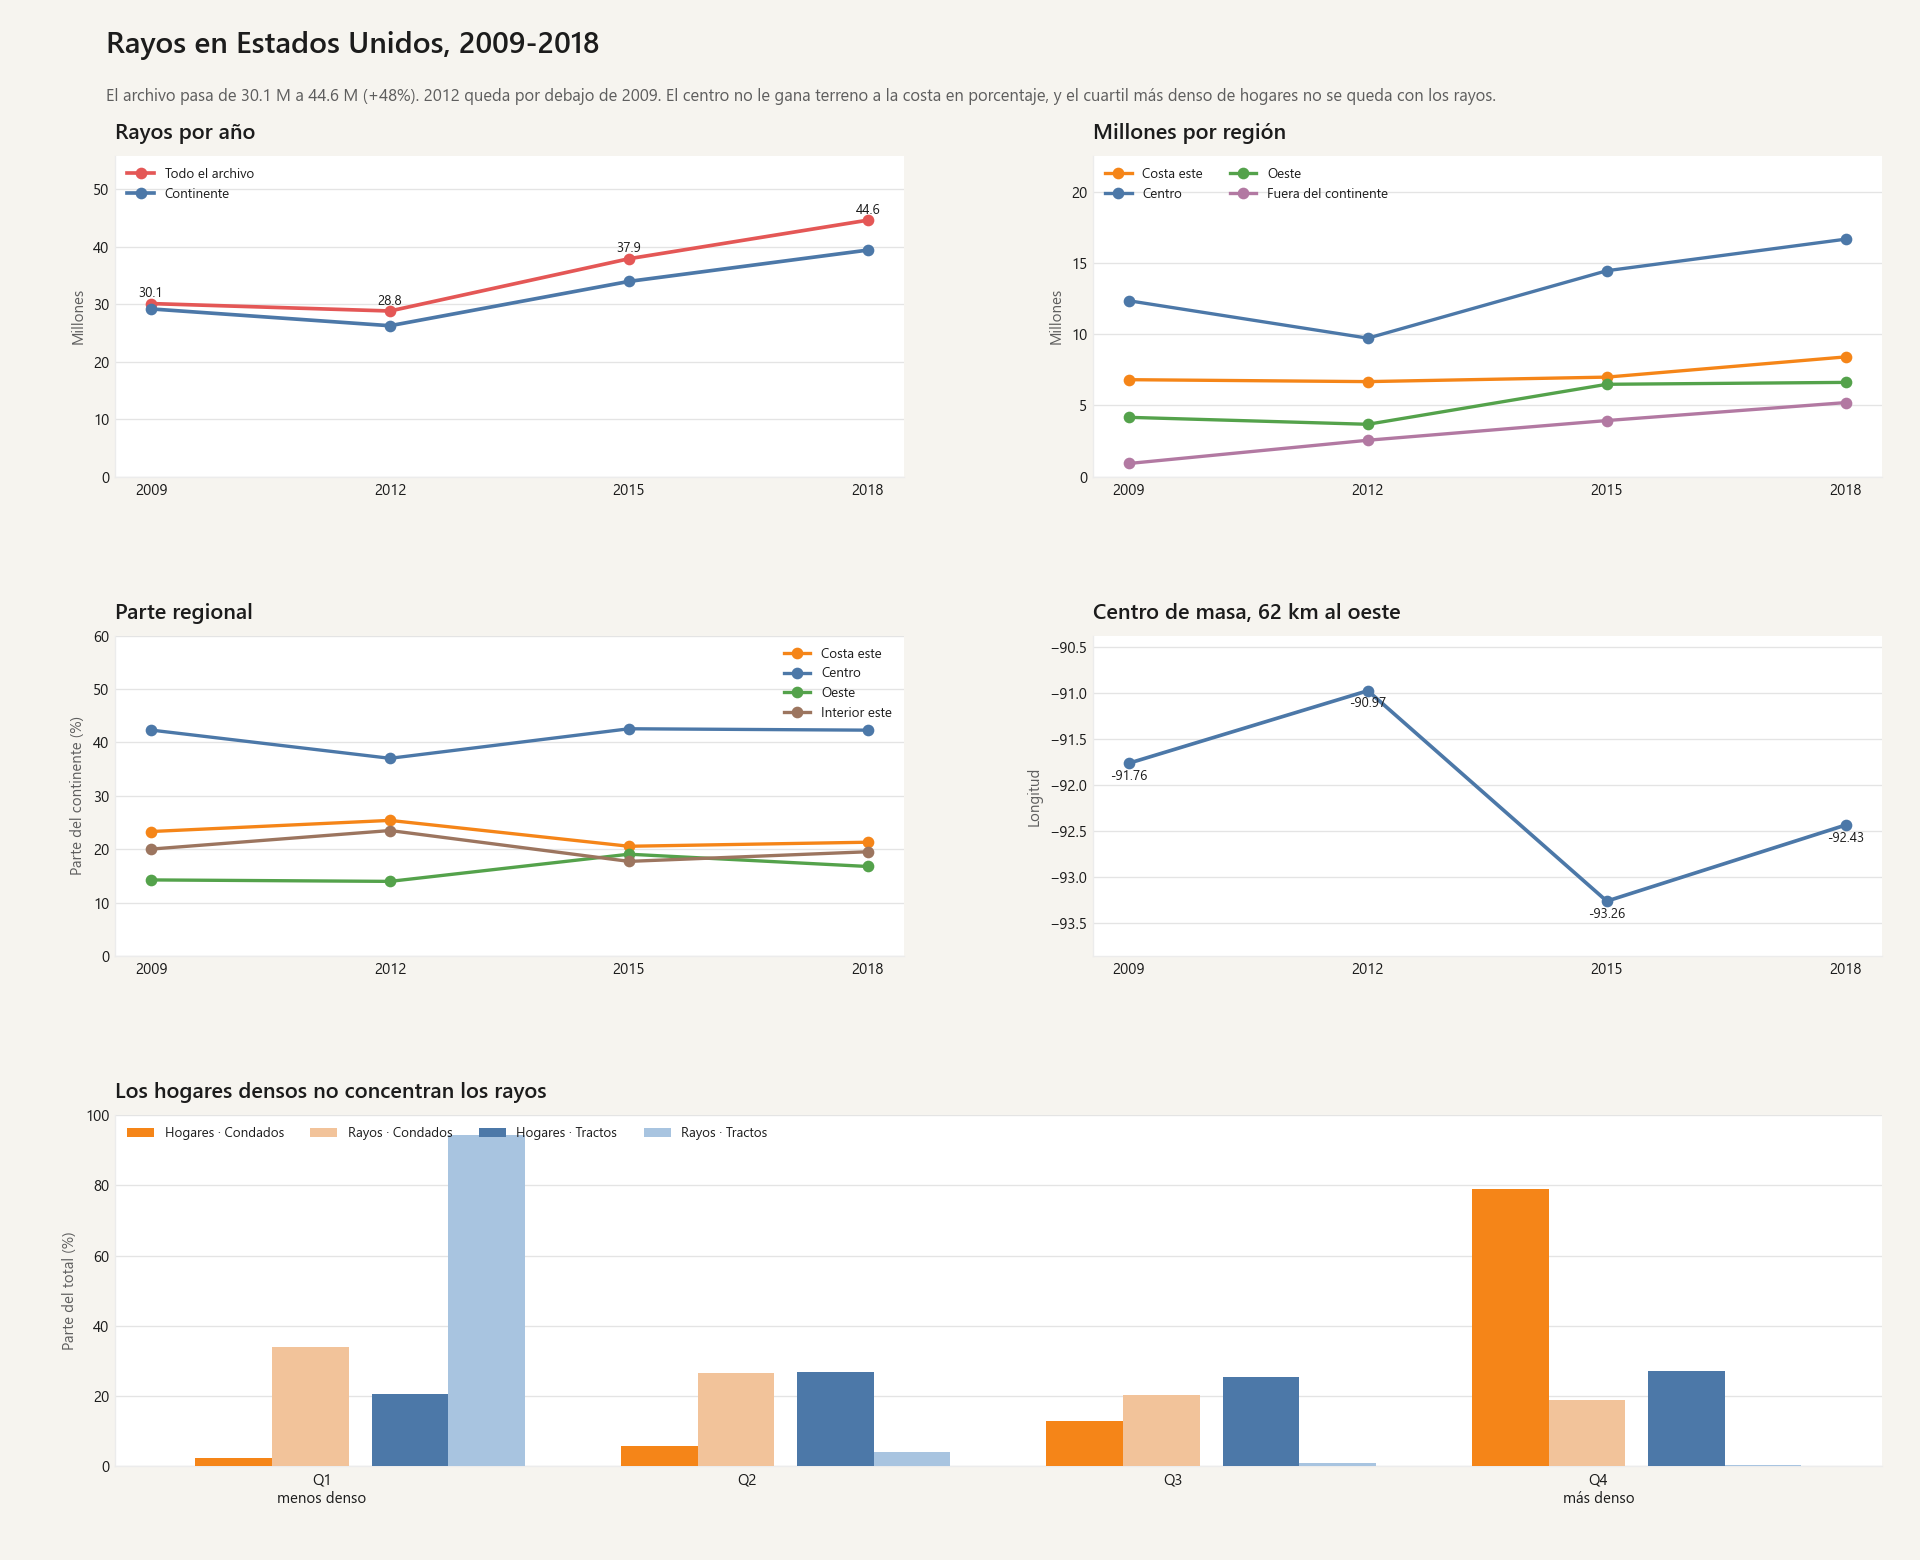
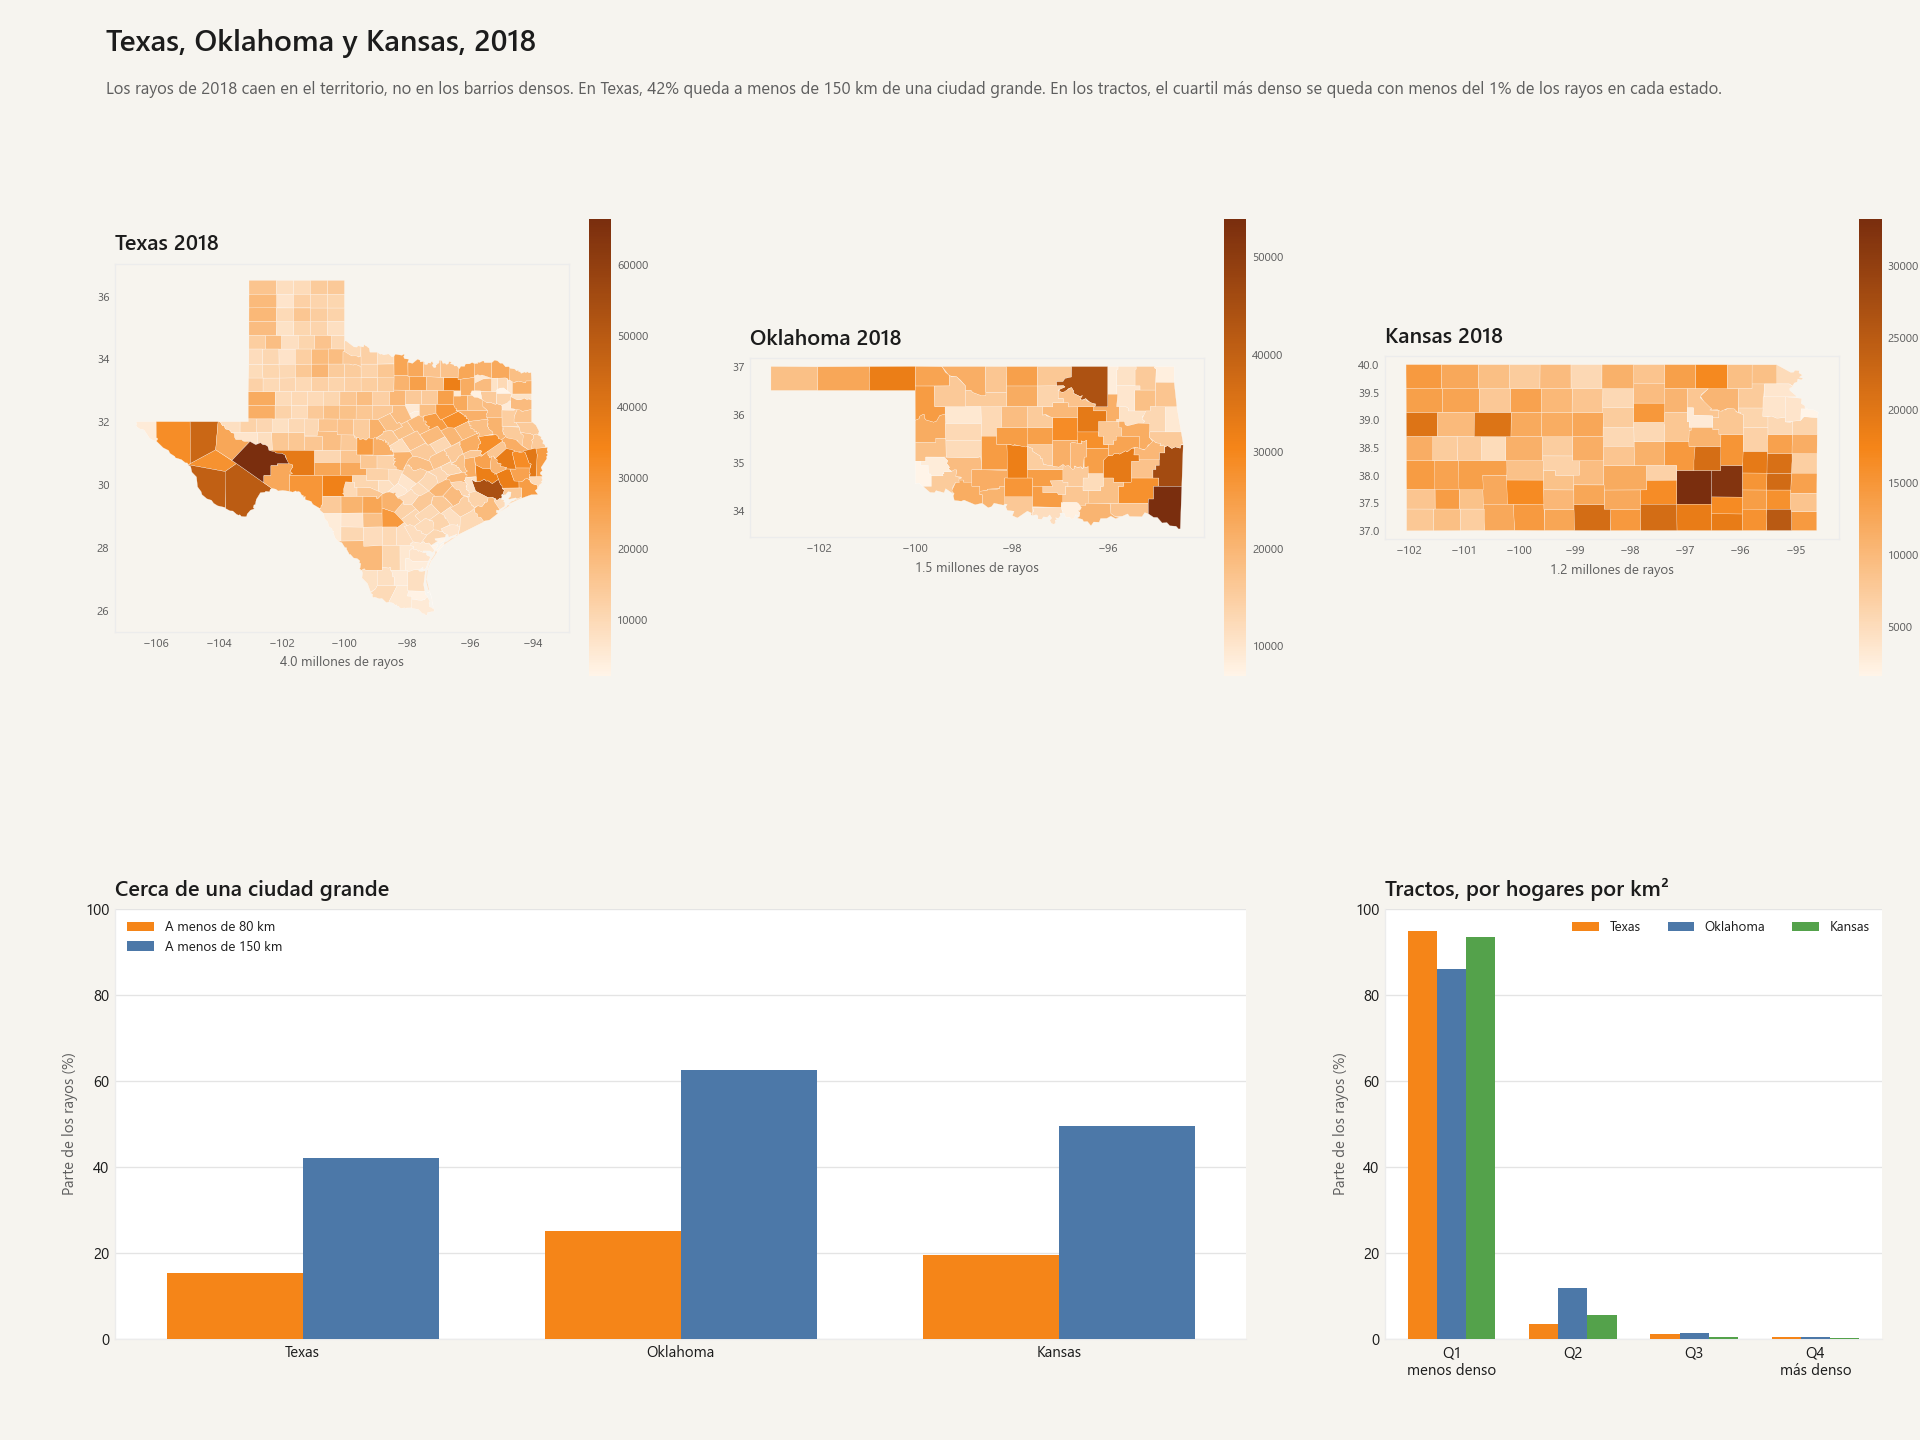
Separa bicicletas y rayos en la portada.
Cada estudio queda en su bloque, con su carpeta y su propia numeración.

diff --git a/analyses/seoul_bikes/holiday_dashboard.py b/analyses/seoul_bikes/holiday_dashboard.py
@@ -1,4 +1,4 @@
-"""Official board for the third exercise.
+"""Official board for the Seoul holiday comparison.
 
 Two charts, the ones the exercise asks for. Adjacent days keeps the calendar
 order. Matching weekdays groups every Monday, then every Tuesday, through
@@ -150,7 +150,7 @@ def render(path=PNG):
     figure.subplots_adjust(left=0.07, right=0.98, top=0.90, bottom=0.16, hspace=0.55)
     path.parent.mkdir(parents=True, exist_ok=True)
     figure.savefig(path, dpi=120, facecolor=figure.get_facecolor())
-    official = path.with_name("ejercicio_3_oficial.png")
+    official = path.with_name("ejercicio_2_oficial.png")
     if official != path:
         try:
             official.write_bytes(path.read_bytes())

diff --git a/analyses/lightning/grid_dashboard.py b/analyses/lightning/grid_dashboard.py
@@ -1,4 +1,4 @@
-"""Official boards for the lightning exercises.
+"""Boards for the U.S. lightning study.
 
 `render` draws the 2009-2018 study from the summaries already on disk.
 `render_tableau` draws the five charts of
@@ -22,7 +22,7 @@ from matplotlib.colors import LogNorm
 
 ROOT = Path(__file__).resolve().parent
 OUT = ROOT / "outputs"
-PNG = OUT / "ejercicio_2_oficial.png"
+PNG = OUT / "ejercicio_1_oficial.png"
 
 INK = "#1c1c1c"
 MUTED = "#5e5e5e"

diff --git a/analyses/seoul_bikes/grid_dashboard.py b/analyses/seoul_bikes/grid_dashboard.py
@@ -1,4 +1,4 @@
-"""Official board for the first exercise: Seoul bike maintenance, 2018.
+"""Official board for Seoul bike maintenance, 2018.
 
 Five charts, and only these five. Reads the tables already prepared by
 seoul_detail.py. Does not reload those tables and does not delete charts.

diff --git a/analyses/lightning/states_dashboard.py b/analyses/lightning/states_dashboard.py
@@ -14,7 +14,7 @@ from matplotlib.colors import LinearSegmentedColormap
 
 ROOT = Path(__file__).resolve().parent
 OUT = ROOT / "outputs"
-PNG = OUT / "ejercicio_4_oficial.png"
+PNG = OUT / "ejercicio_2_oficial.png"
 STATES = ("Texas", "Oklahoma", "Kansas")
 
 INK = "#1c1c1c"

diff --git a/README.md b/README.md
@@ -1,54 +1,58 @@
 # ApacheWork
 
-Cuatro ejercicios de Tableau, rehechos en Python, y los dos tableros de rayos exportados. Al abrir el repositorio se ven las figuras.
+Dos estudios, en carpetas distintas. No comparten datos ni tableros.
 
-## 1. Bicicletas en Seúl, 2018
+## Bicicletas en Seúl
+
+El detalle está en [analyses/seoul_bikes/README.md](analyses/seoul_bikes/README.md).
+
+### 1. Mantenimiento, 2018
 
 En los días hábiles, entre las 8 a.m. y las 5 p.m., la hora con menos alquileres es las **10 a.m.**: 548 bicicletas de promedio, y la más baja en 171 de 240 jornadas.
 
-![Tablero oficial: horarios de mantenimiento de bicicletas en Seúl, 2018](analyses/seoul_bikes/outputs/ejercicio_1_oficial.png)
+![Mantenimiento de bicicletas en Seúl, 2018](analyses/seoul_bikes/outputs/ejercicio_1_oficial.png)
 
-Detalle del corte: [analyses/seoul_bikes/README.md](analyses/seoul_bikes/README.md).
-
-## 2. Rayos en Estados Unidos, 2009-2018
-
-El archivo pasa de **30.1 a 44.6 millones** de rayos (+48%). 2012 queda por debajo de 2009. El centro no le gana terreno a la costa en porcentaje, y el cuartil de condados con más hogares por km² se queda con el 79% de los hogares y solo el 19% de los rayos.
-
-![Tablero oficial: rayos en Estados Unidos, 2009-2018](analyses/lightning/outputs/ejercicio_2_oficial.png)
-
-Detalle de las tres frases: [analyses/lightning/README.md](analyses/lightning/README.md).
-
-## 3. Feriados en Seúl, 2017 y 2018
+### 2. Feriados, 2017 y 2018
 
 **Impact of Holidays on Seoul Bike Rentals in 2017 and 2018.** Solo días con Functioning Day = Yes. Cada barra es el total del día. Un feriado promedia 12,700 bicicletas y un día común 17,727, un 28.4% menos. Adjacent days sigue el calendario. Matching weekdays junta cada día de la semana y lo marca con un color hasta el último día.
 
-![Tablero oficial: impacto de los feriados en los alquileres de Seúl, 2017 y 2018](analyses/seoul_bikes/outputs/ejercicio_3_oficial.png)
+![Impacto de los feriados en los alquileres de Seúl, 2017 y 2018](analyses/seoul_bikes/outputs/ejercicio_2_oficial.png)
 
-## 4. Texas, Oklahoma y Kansas, 2018
+## Rayos en Estados Unidos
 
-Los rayos de estos tres estados caen en el territorio, no en los barrios densos. En Texas, el **42%** queda a menos de 150 km de una ciudad grande. En los tractos, el cuartil con más hogares por km² se queda con menos del **1%** de los rayos en cada estado.
+El detalle está en [analyses/lightning/README.md](analyses/lightning/README.md).
 
-![Tablero oficial: Texas, Oklahoma y Kansas en 2018](analyses/lightning/outputs/ejercicio_4_oficial.png)
-
-## 5. Lightning strikes: ejercicios de Tableau
+### 1. Lightning strikes: ejercicios de Tableau
 
 Todo Estados Unidos en 2018. El calor es la suma de rayos de cada celda. Al lado, el mismo mapa con el color según la cantidad: azul de 1 a 2 rayos, rojo de 40 a 108. Abajo, strikes por mes y año, la caja diaria por trimestre y el histograma de strikes entre 1 y 200.
 
 ![Lightning strikes: ejercicios de Tableau](analyses/lightning/outputs/lightning_tableau.png)
 
-## 6. Historia: rayos en Estados Unidos, 2009-2018
+### 2. Historia: rayos en Estados Unidos, 2009-2018
 
 El archivo pasa de **30.1 a 44.6 millones**. Los mapas de condado comparan 2009 y 2018 en la misma escala. Texas, Oklahoma y Kansas se ven por tracto: 4.1, 1.6 y 1.2 millones de rayos. En los condados, el cuartil más denso se queda con el 79% de los hogares y el 19% de los rayos. En los tractos de los tres estados, ese cuartil se queda con menos del 1% de los rayos.
 
 ![Historia: rayos en Estados Unidos, 2009-2018](analyses/lightning/outputs/historia_rayos.png)
 
+### 3. Texas, Oklahoma y Kansas, 2018
+
+Los rayos de estos tres estados caen en el territorio, no en los barrios densos. En Texas, el **42%** queda a menos de 150 km de una ciudad grande. En los tractos, el cuartil con más hogares por km² se queda con menos del **1%** de los rayos en cada estado.
+
+![Texas, Oklahoma y Kansas en 2018](analyses/lightning/outputs/ejercicio_2_oficial.png)
+
+### 4. Resumen, 2009-2018
+
+El archivo pasa de **30.1 a 44.6 millones** de rayos (+48%). 2012 queda por debajo de 2009. El centro no le gana terreno a la costa en porcentaje, y el cuartil de condados con más hogares por km² se queda con el 79% de los hogares y solo el 19% de los rayos.
+
+![Resumen de rayos en Estados Unidos, 2009-2018](analyses/lightning/outputs/ejercicio_1_oficial.png)
+
 ## Cómo está armado
 
-Python filtra y agrega. Superset solo dibuja esas tablas.
+Python filtra y agrega. Superset solo dibuja esas tablas. Cada estudio vive en su carpeta.
 
 ```
-analyses/seoul_bikes/     mantenimiento, feriados y las dos imágenes oficiales
-analyses/lightning/       totales, territorio, censo, mapas y las imágenes de los tableros
+analyses/seoul_bikes/     bicicletas: mantenimiento, feriados e imágenes
+analyses/lightning/       rayos: totales, territorio, mapas e imágenes
 deploy/superset.md        cómo levantar el Superset local
 ```
 
@@ -64,7 +68,7 @@ python -m venv .venv
 python -m pip install -r requirements.txt
 ```
 
-Los CSV de origen no están en el repositorio. Las rutas de esta máquina y las variables `SEOUL_CSV` y `LIGHTNING_CSV` están en el README de cada estudio.
+Los CSV de origen no están en el repositorio. La ruta de cada archivo está en el README de su estudio.
 
 ## Superset
 
@@ -73,6 +77,6 @@ El clon de Apache Superset y el disco de Docker quedan fuera de git. La guía de
 ## Qué no entra en este repositorio
 
 - El árbol upstream de Superset y `docker-data/`.
-- Los microdatos de rayos y de bicicletas.
-- Los extractos del Census Bureau y los polígonos generados.
+- El microdato de bicicletas.
+- El microdato de rayos, los extractos del Census Bureau y los polígonos generados.
 - El gimnasio de práctica que está en `practice/` y `Docs/` en la máquina local.
